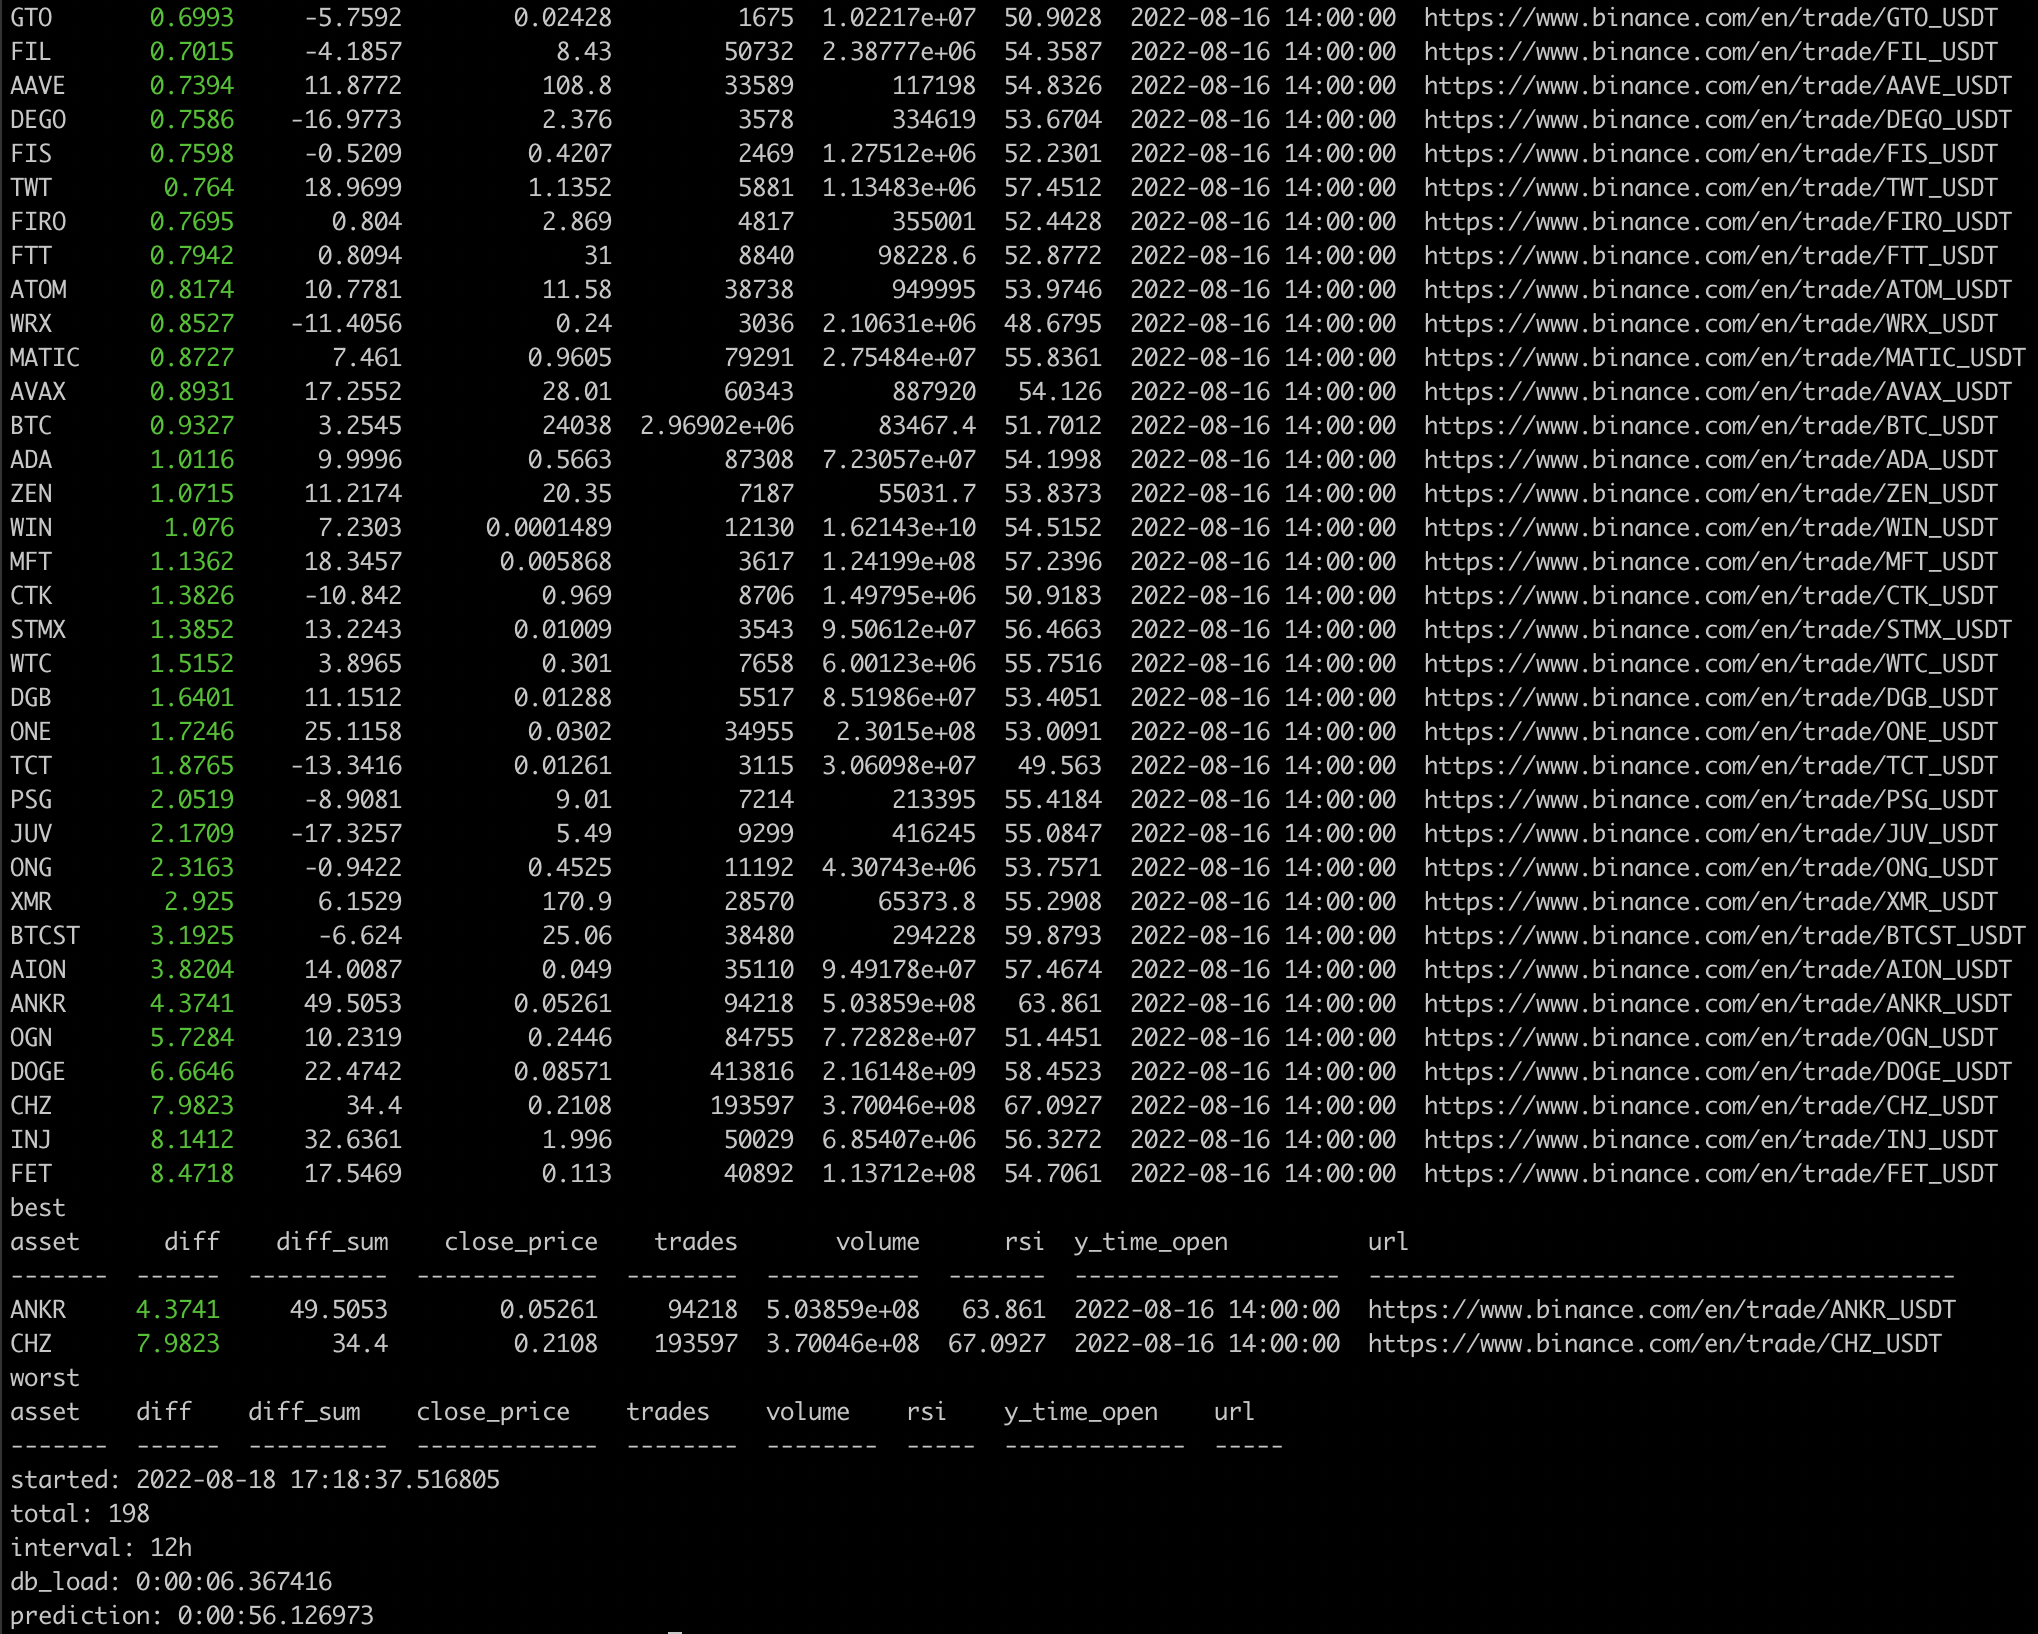
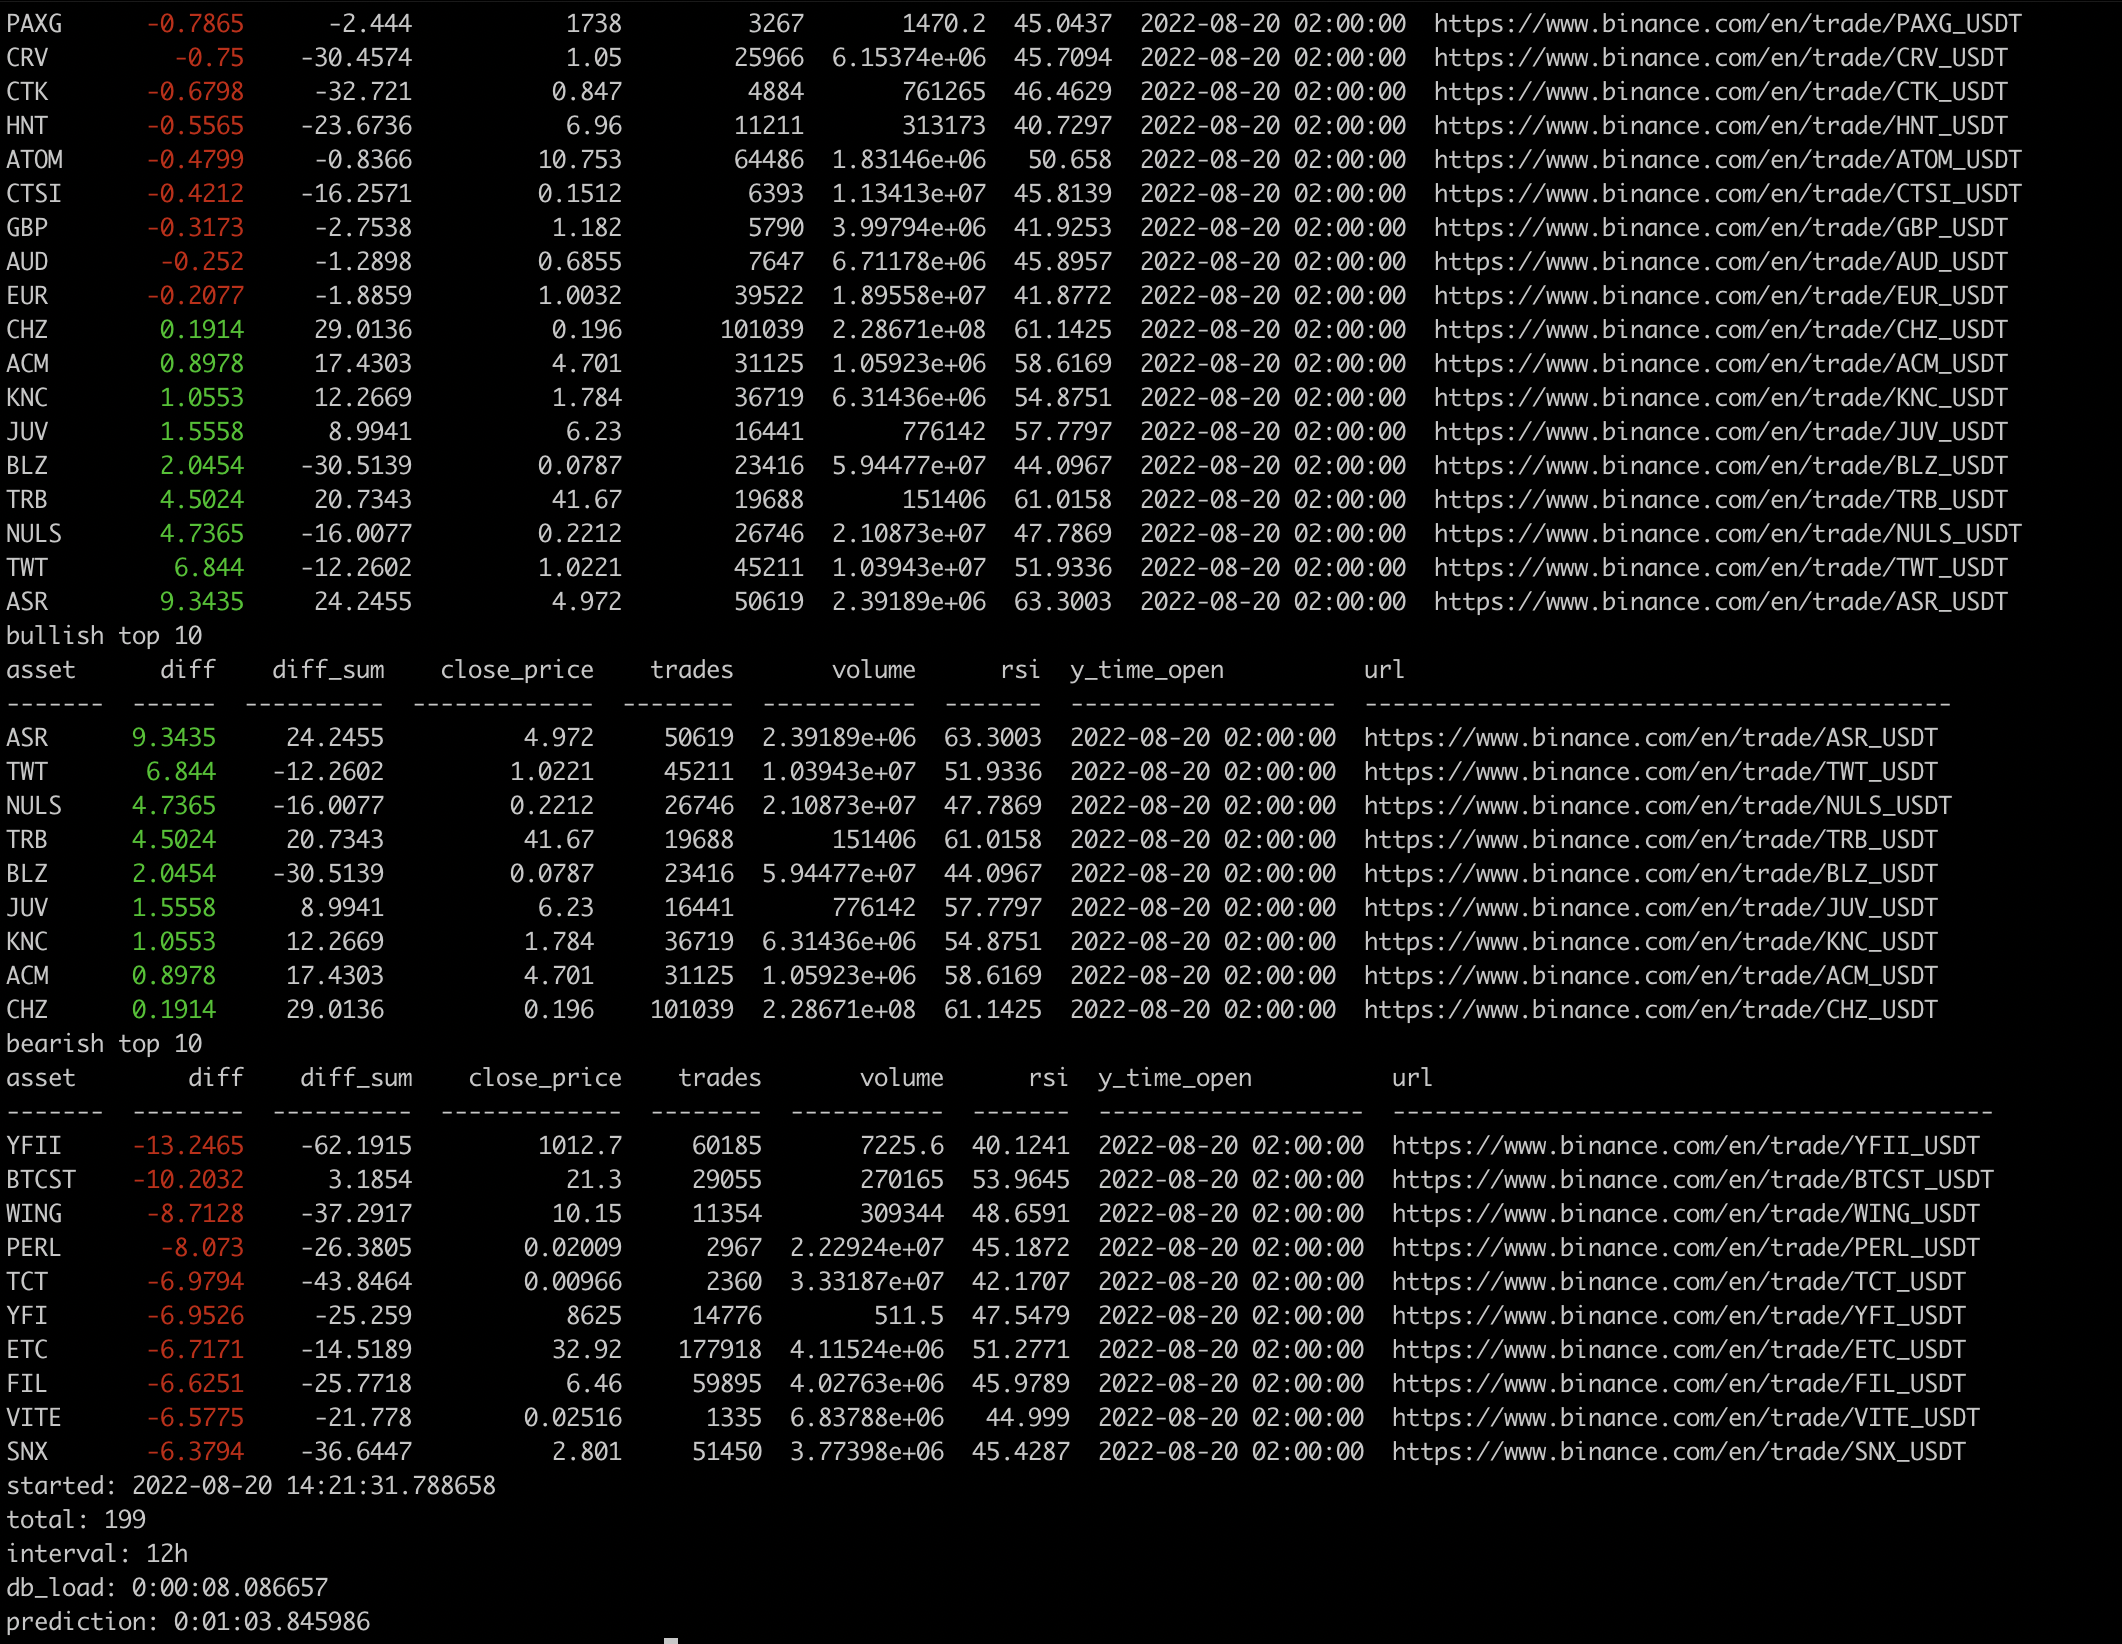
test fixed

Changed region(s): [[0.0, 0.0, 0.9892, 0.9988], [0.3091, 0.9988, 0.34, 1.0]]

diff --git a/test/service/test_trade_finder.py b/test/service/test_trade_finder.py
@@ -1,4 +1,4 @@
-from fixture.ohlc import crate_ohlc_many
+from fixture.ohlc import crate_ohlc_many_bullish, crate_ohlc_many_bearish
 
 from src.service.dataset_builder import DatasetBuilder
 from src.service.trade_finder import TradeFinder
@@ -10,7 +10,7 @@ trade_finder = TradeFinder()
 scaler = MinMaxScaler()
 
 
-def test_pick_best_options():
+def test_find_bullish():
     assets = [
         'BTC',
     ]
@@ -21,9 +21,9 @@ def test_pick_best_options():
         interval='5m',
     )
 
-    crate_ohlc_many(asset='BTC', market='USDT', interval='5m', price=10000, quantity=100)
+    crate_ohlc_many_bullish(asset='BTC', market='USDT', interval='5m', price=10000, quantity=100)
 
-    collection = builder.build_dataset_predict()
+    collection = builder.build_dataset_predict(width=100)
     x_df = collection[0]
     x_df_original = x_df.copy()
     y_df = x_df.drop(columns=['asset', 'time_close'])
@@ -33,8 +33,34 @@ def test_pick_best_options():
 
     df = reporter.report_build(data=data)
 
-    db_best = trade_finder.pick_best_options(df, diff=0, rsi=0, trades=0)
+    db_bullish = trade_finder.find_bullish(df, diff=0, rsi=0, trades=0, limit=10)
 
-    best = db_best.loc[0]
+    assert db_bullish.loc[0]['asset'] == 'BTC'
 
-    assert best['asset'] == 'BTC'
+
+def test_find_bearish():
+    assets = [
+        'BTC',
+    ]
+
+    builder = DatasetBuilder(
+        market='USDT',
+        assets=assets,
+        interval='5m',
+    )
+
+    crate_ohlc_many_bearish(asset='BTC', market='USDT', interval='5m', price=10000, quantity=100)
+
+    collection = builder.build_dataset_predict(width=100)
+    x_df = collection[0]
+    x_df_original = x_df.copy()
+    y_df = x_df.drop(columns=['asset', 'time_close'])
+
+    data = []
+    data.append((x_df_original, y_df))
+
+    df = reporter.report_build(data=data)
+
+    df_bearish = trade_finder.find_bearish(df, diff=0, rsi=100, trades=0, limit=10)
+
+    assert df_bearish.loc[0]['asset'] == 'BTC'

diff --git a/fixture/ohlc.py b/fixture/ohlc.py
@@ -5,7 +5,34 @@ from src.repository.ohlc_repository import OhlcRepository
 from src.service.util import Utility
 
 
-def crate_ohlc_many(asset: str, market: str, interval: str, price: float, quantity: int) -> pd.DataFrame:
+def crate_ohlc_many_bullish(asset: str, market: str, interval: str, price: float, quantity: int) -> pd.DataFrame:
+    return crate_ohlc_many(
+        asset=asset,
+        market=market,
+        interval=interval,
+        price=price,
+        quantity=quantity,
+        multiplier=2,
+    )
+
+
+def crate_ohlc_many_bearish(asset: str, market: str, interval: str, price: float, quantity: int) -> pd.DataFrame:
+    return crate_ohlc_many(
+        asset=asset,
+        market=market,
+        interval=interval,
+        price=price,
+        quantity=quantity,
+        multiplier=-2,
+    )
+
+
+def crate_ohlc_many(asset: str,
+                    market: str,
+                    interval: str,
+                    price: float,
+                    quantity: int,
+                    multiplier: int) -> pd.DataFrame:
     ohlc_repository = OhlcRepository()
     utility = Utility()
 
@@ -14,10 +41,10 @@ def crate_ohlc_many(asset: str, market: str, interval: str, price: float, quanti
     time_close = 1650011400
 
     for i in range(quantity):
-        price_open = price + i
-        price_high = price + i
-        price_low = price + i
-        price_close = price + i
+        price_open = price + i * multiplier
+        price_high = price + i * multiplier
+        price_low = price + i * multiplier
+        price_close = price + i * multiplier
 
         volume = 1 + i
         quote_asset_volume = 1

diff --git a/test/service/test_dataset_builder.py b/test/service/test_dataset_builder.py
@@ -1,4 +1,4 @@
-from fixture.ohlc import crate_ohlc_many
+from fixture.ohlc import crate_ohlc_many_bullish
 
 from src.entity.ohlc import Ohlc
 from src.service.dataset_builder import DatasetBuilder
@@ -21,21 +21,22 @@ def test_build_dataset_train():
         interval='5m',
     )
 
-    crate_ohlc_many(asset='BTC', market='USDT', interval='5m', price=10000, quantity=100)
-    crate_ohlc_many(asset='ETH', market='USDT', interval='5m', price=1000, quantity=100)
+    crate_ohlc_many_bullish(asset='BTC', market='USDT', interval='5m', price=10000, quantity=100)
+    crate_ohlc_many_bullish(asset='ETH', market='USDT', interval='5m', price=1000, quantity=100)
 
-    train, validate = builder.build_dataset_train()
+    train, validate, test = builder.build_dataset_train()
 
     assert train['open'].iloc[0] == 0.0
-    assert train['open'].iloc[1] == 0.000000
-    assert train['open'].iloc[2] == 0.00515463917525949
 
-    assert validate['open'].iloc[0] == 0.9072164948453576
-    assert validate['open'].iloc[1] == 0.9175257731958766
-    assert validate['open'].iloc[2] == 0.9278350515463814
+    assert validate['open'].iloc[0] == 0.7070707070707059
 
-    assert len(train) == 180
-    assert len(train.keys()) == 223
+    assert test['open'].iloc[0] == 0.9090909090909065
 
-    assert len(validate) == 20
-    assert len(validate.keys()) == 223
+    assert len(train) == 140
+    assert len(train.keys()) == 11
+
+    assert len(validate) == 40
+    assert len(validate.keys()) == 11
+
+    assert len(test) == 20
+    assert len(test.keys()) == 11

diff --git a/src/service/predictor.py b/src/service/predictor.py
@@ -1,4 +1,3 @@
-import webbrowser
 import tensorflow as tf
 
 import numpy as np
@@ -89,21 +88,19 @@ class Predictor:
 
         if total:
             df = self.reporter.report_build(data=data)
-            df_best = self.trade_finder.pick_best_options(df, diff=2, rsi=60, trades=50)
-            df_worst = self.trade_finder.pick_worst_options(df, diff=-3, rsi=-40)
+            df_bullish = self.trade_finder.find_bullish(df, diff=0, rsi=0, trades=50, limit=10)
+            df_bearish = self.trade_finder.find_bearish(df, diff=0, rsi=100, trades=50, limit=10)
 
             report = self.reporter.report_prettify(df)
-            report_best = self.reporter.report_prettify(df_best)
-            report_worst = self.reporter.report_prettify(df_worst)
+            report_bullish = self.reporter.report_prettify(df_bullish)
+            report_bearish = self.reporter.report_prettify(df_bearish)
 
             print('all')
             print(report)
-            print('best')
-            print(report_best)
-            print('worst')
-            print(report_worst)
-
-            # webbrowser.open(df.iloc[-1]['url'], new=2)
+            print('bullish top 10')
+            print(report_bullish)
+            print('bearish top 10')
+            print(report_bearish)
 
         else:
             print('--- no data ---')

diff --git a/src/service/trade_finder.py b/src/service/trade_finder.py
@@ -2,20 +2,20 @@ import pandas as pd
 
 
 class TradeFinder:
-    def pick_best_options(self, df: pd.DataFrame, diff: float, rsi: float, trades: int) -> pd.DataFrame:
+    def find_bullish(self, df: pd.DataFrame, diff: float, rsi: float, trades: int, limit: int) -> pd.DataFrame:
         df = df.query(f'diff > {diff} and rsi > {rsi} and trades > {trades}')
 
-        df = df.sort_values(by=['diff_sum'], ascending=False)
-
+        df = df.sort_values(by=['diff'], ascending=False)
         df = df.reset_index(drop=True)
+        df = df[0:limit]
 
         return df
 
-    def pick_worst_options(self, df: pd.DataFrame, diff: float, rsi: float) -> pd.DataFrame:
-        df = df.query(f'diff < {diff} and rsi < {rsi} and trades > 50')
+    def find_bearish(self, df: pd.DataFrame, diff: float, rsi: float, trades: int, limit: int) -> pd.DataFrame:
+        df = df.query(f'diff < {diff} and rsi < {rsi} and trades > {trades}')
 
-        df = df.sort_values(by=['diff'], ascending=False)
-
+        df = df.sort_values(by=['diff'], ascending=True)
         df = df.reset_index(drop=True)
+        df = df[0:limit]
 
         return df

diff --git a/test/service/test_reporter.py b/test/service/test_reporter.py
@@ -1,4 +1,4 @@
-from fixture.ohlc import crate_ohlc_many
+from fixture.ohlc import crate_ohlc_many_bullish
 
 from src.service.dataset_builder import DatasetBuilder
 from src.service.reporter import Reporter
@@ -18,7 +18,7 @@ def test_report_prettify():
     )
     width = 100
 
-    crate_ohlc_many(asset='BTC', market='USDT', interval='5m', price=10000, quantity=width)
+    crate_ohlc_many_bullish(asset='BTC', market='USDT', interval='5m', price=10000, quantity=width)
 
     collection = builder.build_dataset_predict(width=width)
 

diff --git a/src/service/reporter.py b/src/service/reporter.py
@@ -13,7 +13,10 @@ class Reporter:
         self.utility = Utility()
 
     def report_prettify(self, df):
-        df['diff'] = df['diff'].apply(lambda x: chalk.green(x) if x > 0.1 else x)
+        df['diff'] = df['diff'].apply(lambda x:
+                                      chalk.green(x) if x > 0.1 else
+                                      chalk.red(x) if x < -0.1 else x
+                                      )
 
         table = tabulate(
             tabular_data=df.values,

diff --git a/predict.py b/predict.py
@@ -15,7 +15,7 @@ end_at = datetime.utcnow()
 width = 1000
 
 # Data load
-# ------------------------------------------------------------------------
+------------------------------------------------------------------------
 
 loaderOHLC = LoaderOHLC()
 loaderOHLC.flush()

diff --git a/readme.md b/readme.md
@@ -33,7 +33,7 @@ In the current state of development models are trained to predict the closing pr
 ### Predicting single shot
 
 By running `model_predict.py` application fetches time data for 1000 passed intervals, and guesses the only single value
-- the price closed on the current interval. Available intervals: `5m, 15m, 30m, 1h, 2h, 4h, 8h, 12h, 1d, 2d, 3d`.
+for next price . Available intervals: `5m, 15m, 30m, 1h, 2h, 4h, 8h, 12h, 1d, 2d, 3d`.
 Smaller intervals are not well picked up by this type of prediction, `listen.py` to be used instead.
 
 ```
